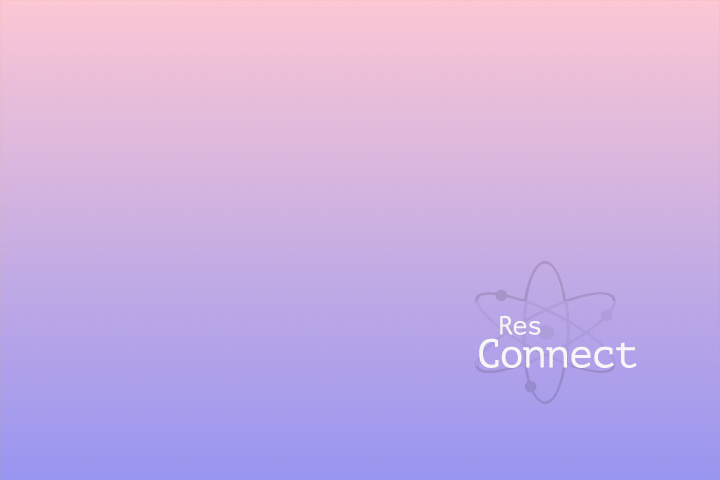
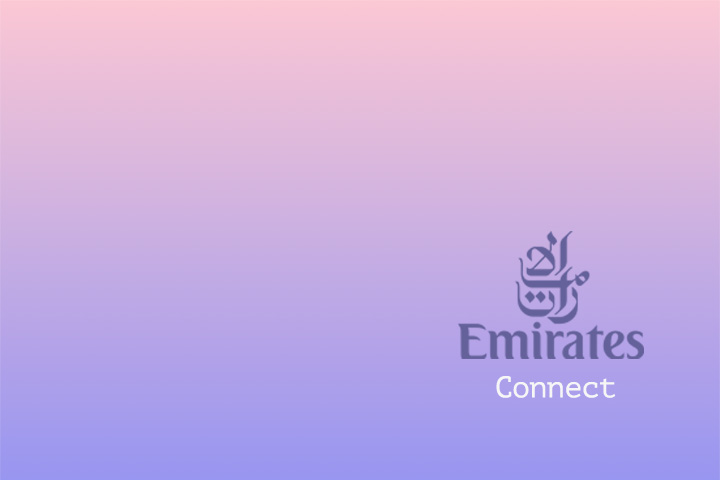
Updating new projects - grading

Changed region(s): [[0.6417, 0.4688, 0.9167, 0.8438]]

diff --git a/handlers/projectLinks.js b/handlers/projectLinks.js
@@ -1,39 +1,21 @@
 exports.projectLinks = [
   {
     "url": "resconnect",
-    "title": "Resconnect",
+    "title": "EMIRATES CONNECT",
     "blurb": "<strong>Case-study</strong> on developing a product in a design sprint",
     "caption": "",
     "locked": true,
     "isProjectWip": false,
-    "poster": "https://s3-ap-southeast-2.amazonaws.com/k97static/proj-placeholder/rescon.jpg"
+    "poster": "/static/img/placeholders/rescon.jpg"
   },
   {
-    "url": "air",
-    "title": "AIR",
-    "blurb": "Geo-mapping Angular app design & development",
-    "locked": true,
-    "caption": "",
-    "isProjectWip": false,
-    "poster": "https://s3-ap-southeast-2.amazonaws.com/k97static/proj-placeholder/air.jpg"
-  },
-  {
-    "url": "crichq",
-    "title": "CricHQ",
-    "blurb": "Web & mobile application design and development",
-    "locked": false,
-    "caption": "",
-    "isProjectWip": false,
-    "poster": "https://s3-ap-southeast-2.amazonaws.com/k97static/proj-placeholder/crichq.jpg"
-  },
-  {
-    "url": "sony-music-app",
-    "title": "Sony Music",
-    "blurb": "Responsive app design &amp; development project",
+    "url": "grading-system",
+    "title": "Emirates Grading",
+    "blurb": "Dynamic form builder framework",
     "caption": "",
     "locked": true,
     "isProjectWip": false,
-    "poster": "https://s3-ap-southeast-2.amazonaws.com/k97static/proj-placeholder/sony.jpg"
+    "poster": "/static/img/placeholders/etags.jpg"
   },
   {
     "url": "wonder",
@@ -42,7 +24,34 @@ exports.projectLinks = [
     "locked": true,
     "caption": "",
     "isProjectWip": false,
-    "poster": "https://s3-ap-southeast-2.amazonaws.com/k97static/proj-placeholder/wonder.jpg"
+    "poster": "/static/img/placeholders/wonder.jpg"
+  },
+  {
+    "url": "crichq",
+    "title": "CricHQ",
+    "blurb": "Web & mobile application design and development",
+    "locked": false,
+    "caption": "",
+    "isProjectWip": false,
+    "poster": "/static/img/placeholders/crichq.jpg"
+  },
+  {
+    "url": "air",
+    "title": "AIR",
+    "blurb": "Geo-mapping Angular app design & development",
+    "locked": true,
+    "caption": "",
+    "isProjectWip": false,
+    "poster": "/static/img/placeholders/air.jpg"
+  },
+  {
+    "url": "sony-music-app",
+    "title": "Sony Music",
+    "blurb": "Responsive app design &amp; development project",
+    "caption": "",
+    "locked": true,
+    "isProjectWip": false,
+    "poster": "/static/img/placeholders/sony.jpg"
   },
   {
     "url": "display-directions",
@@ -51,16 +60,7 @@ exports.projectLinks = [
     "caption": "",
     "locked": false,
     "isProjectWip": true,
-    "poster": "https://s3-ap-southeast-2.amazonaws.com/k97static/proj-placeholder/directions.jpg"
-  },
-  {
-    "url": "viewport-resizer",
-    "title": "Viewport Resizer",
-    "blurb": "A tool to test webpages on different resolutions",
-    "caption": "",
-    "locked": false,
-    "isProjectWip": false,
-    "poster": "https://s3-ap-southeast-2.amazonaws.com/k97static/proj-placeholder/viewport.jpg"
+    "poster": "/static/img/placeholders/directions.jpg"
   },
   {
     "url": "fss",
@@ -69,10 +69,19 @@ exports.projectLinks = [
     "caption": "",
     "locked": true,
     "isProjectWip": false,
-    "poster": "https://s3-ap-southeast-2.amazonaws.com/k97static/proj-placeholder/fss.jpg"
+    "poster": "/static/img/placeholders/fss.jpg"
   },
+  {
+    "url": "viewport-resizer",
+    "title": "Viewport Resizer",
+    "blurb": "A tool to test webpages on different resolutions",
+    "caption": "",
+    "locked": false,
+    "isProjectWip": false,
+    "poster": "/static/img/placeholders/viewport.jpg"
+  }
 ]
 
 
-// https://s3-ap-southeast-2.amazonaws.com/k97static/proj-placeholder/
+// /static/img/placeholders/
 // /

diff --git a/pages/work/grading-system.js b/pages/work/grading-system.js
@@ -1,0 +1,61 @@
+import React from 'react';
+import axios from 'axios';
+import ReactMarkdown from 'react-markdown';
+import mediumZoom from 'medium-zoom';
+
+import Layout from '../../components/Layout/index';
+import ProjectTitle from '../../components/Work/ProjectTitle';
+import EditProject from '../../components/Work/EditProject';
+import UILoader from '../../components/Home/UILoader';
+
+class GradingSystem extends React.Component {
+
+  constructor(props) {
+    super(props);
+    this.state = {
+      project: {},
+      loading: true
+    };
+    this.fetchProjectDetail = this.fetchProjectDetail.bind(this);
+  }
+
+  componentDidMount() {
+    this.fetchProjectDetail();
+  }
+
+  fetchProjectDetail() {
+    axios.get('/api/project/air').then(response => {
+      this.setState({ project: response.data, loading: false });
+      mediumZoom('.work-detail-wrapper img',{ margin: 70 })
+    }).catch(error => {
+      this.setState({ loading: false });
+    });
+  }
+
+
+  render() {
+    const content = this.state.project.content;
+    return (
+      <Layout title={`Emirates Grading - Karthik`}>
+        <div className='body-content'>
+
+          <ProjectTitle heading="Emirates Grading" date="October, 2016" bgColor="bg-air" />
+
+          <section className='w-100 ph2 ph3-m ph4-l'>
+            <div className='cf pa2'>
+              <section className="work-detail-wrapper fw4 measure-wide db center f4 lh-copy black-60 ft-serif">
+                <UILoader loading={this.state.loading} />
+                {content ? <ReactMarkdown source={content} /> : ''}
+              </section>
+            </div>
+          </section>
+
+          <EditProject project={this.state.project} />
+
+        </div>
+      </Layout>
+    );
+  }
+}
+
+export default GradingSystem

diff --git a/static/css/main.css b/static/css/main.css
@@ -507,12 +507,12 @@ background-image: linear-gradient(-225deg, #7085B6 0%, #87A7D9 50%, #DEF3F8 100%
 }
 .work-detail-wrapper h2, .work-detail-wrapper h3, .work-detail-wrapper h4, .work-detail-wrapper h5,
 .journal-wrapper h2, .journal-wrapper h3, .journal-wrapper h4, .journal-wrapper h5 {
-  margin-bottom: 0.025em;
+  margin-bottom: 0.25em;
   padding-bottom:0;
 }
 .work-detail-wrapper p, .journal-wrapper p {
   margin-top: 0;
-  padding-top:0;
+  padding-top: 0;
 }
 .admin-section {
   display: none!important

diff --git a/router/projectRoutes.js b/router/projectRoutes.js
@@ -11,7 +11,8 @@ exports.setProjectPage = (id) => {
     'viewport-resizer': 'viewport-resizer',
     'crichq': 'crichq',
     'wonder': 'wonder',
-    'fss': 'fss'
+    'fss': 'fss',
+    'grading-system': 'grading-system'
   };
   return projects[id];
 }
